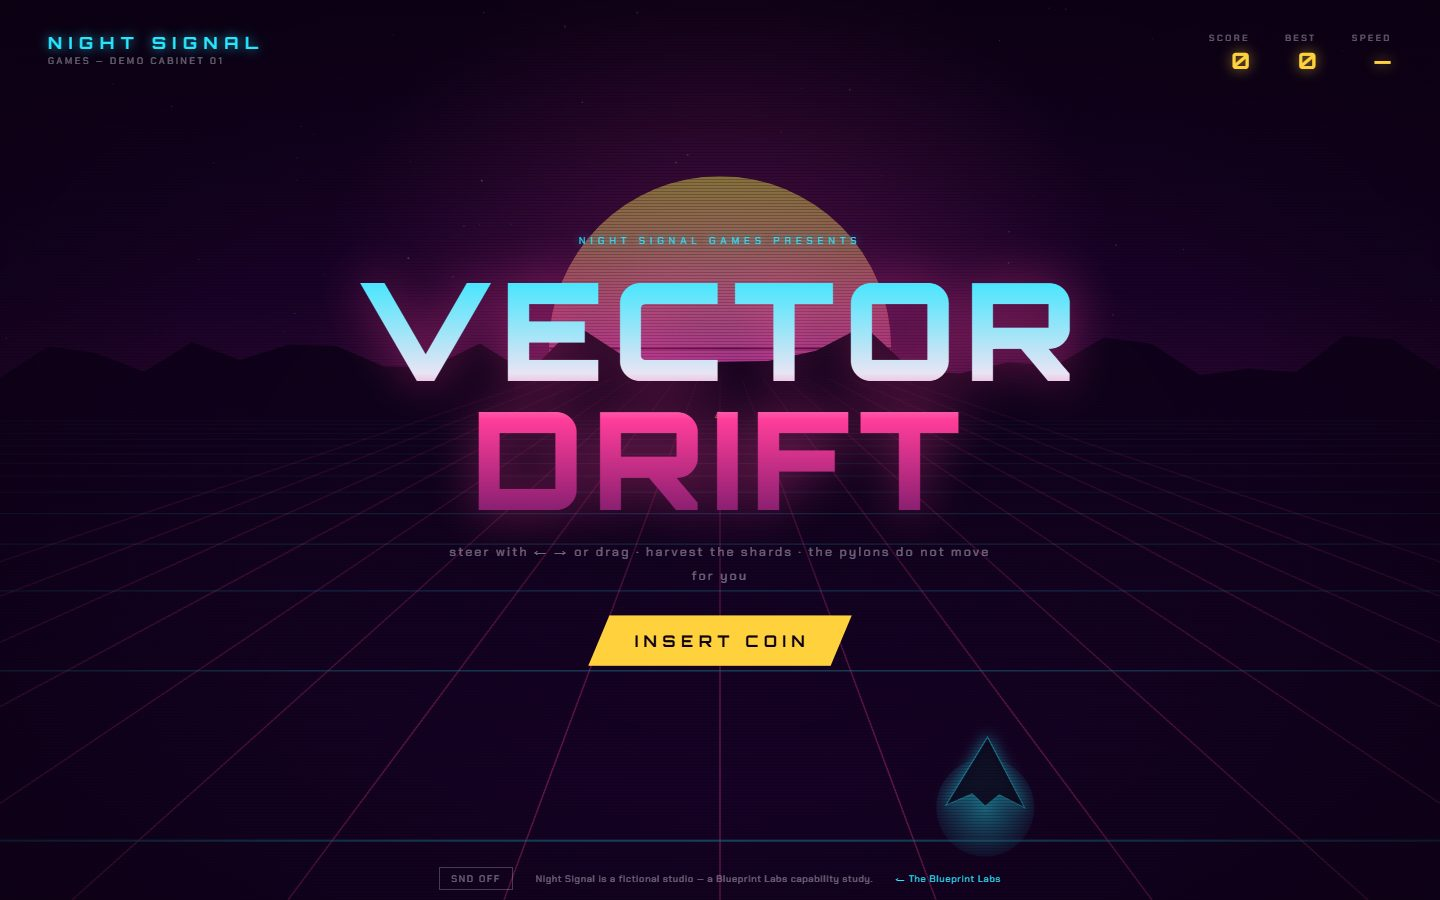
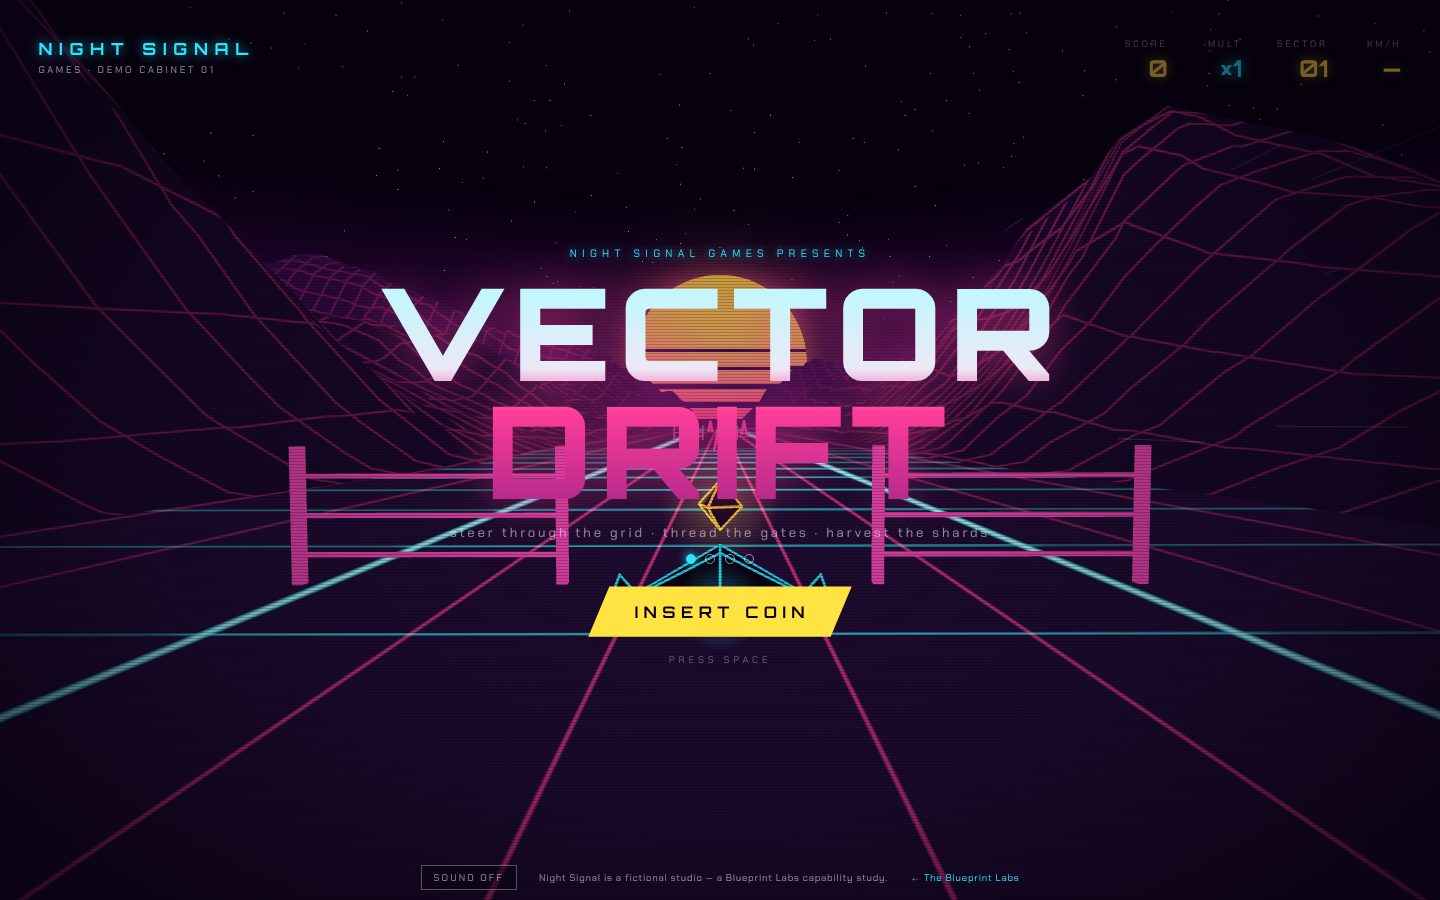
revamp: build 15-vector-drift [Claude]
Claude-Session: https://claude.ai/code/session_01DQwFJw17eUVBsd58sQTT1b

diff --git a/sites/15-vector-drift/script.js b/sites/15-vector-drift/script.js
@@ -420,7 +420,7 @@ function run() {
   scene.add(ship);
 
   // wingtip ribbons, laid flat behind the hull
-  const TRAIL = 10;
+  const TRAIL = 8;
   const trails = [-0.94, 0.94].map((ox) => {
     const pos = new Float32Array(TRAIL * 2 * 3), a = new Float32Array(TRAIL * 2);
     const idx = [];
@@ -631,7 +631,7 @@ function run() {
   const S = {
     mode: 'attract', x: 0, goal: 0, steerVel: 0, speed: 34, dist: 0, gameT: 0,
     score: 0, chain: 0, mult: 1, chainT: 0, sector: 1, near: 0, shardsGot: 0,
-    nextSpawn: 50, timeScale: 1, shake: 0, autoT: 0,
+    nextSpawn: 50, timeScale: 1, shake: 0, autoT: 0, flash: 0,
   };
   const ents = [];
   const keys = {};
@@ -666,6 +666,7 @@ function run() {
     const w = {
       single: 3, pair: sec >= 1 ? 1.6 : 0, gate: 0.9 + sec * 0.35, shards: 1.3,
       drone: sec >= 2 ? 0.8 + sec * 0.3 : 0, slalom: sec >= 2 ? 1 : 0, wall: sec >= 3 ? 0.6 + sec * 0.15 : 0,
+      zigzag: sec >= 3 ? 0.5 + sec * 0.15 : 0,
     };
     let roll = Math.random() * Object.values(w).reduce((a, b) => a + b, 0);
     let pick = 'single';
@@ -702,9 +703,24 @@ function run() {
       return 16;
     }
     if (pick === 'slalom') {
-      const start = Math.floor(Math.random() * 2);
-      for (let k = 0; k < 4; k++) addEnt('pylon', LANES[(start + k) % 2 === 0 ? 1 : 3], z - k * 13);
-      return 52;
+      // a spine down the middle with gates of pylons stepping out to either side
+      const flip = Math.random() < 0.5 ? 1 : 3;
+      for (let k = 0; k < 4; k++) {
+        addEnt('pylon', LANES[2], z - k * 15);
+        addEnt('pylon', LANES[(k % 2) ? 4 - flip : flip], z - k * 15);
+      }
+      addEnt('shard', LANES[flip === 1 ? 0 : 4], z - 22);
+      return 60;
+    }
+    if (pick === 'zigzag') {
+      // rows of four with the gap swinging across: you have to move
+      const gaps = Math.random() < 0.5 ? [0, 3, 1] : [4, 1, 3];
+      const step = Math.max(30, S.speed * 0.5);
+      gaps.forEach((g, k) => {
+        LANES.forEach((x, i) => { if (i !== g) addEnt('pylon', x, z - k * step); });
+        addEnt('shard', LANES[g], z - k * step);
+      });
+      return step * 2 + 10;
     }
     // wall: four pylons abreast, one lane open
     const open = Math.floor(Math.random() * 5);
@@ -796,7 +812,7 @@ function run() {
     setMode('over');
     const sc = Math.floor(S.score);
     el.final.textContent = sc.toLocaleString('en-US');
-    el.finalMeta.textContent = `sector ${String(S.sector).padStart(2, '0')} · ${S.near} near misses · ${S.shardsGot} shards · best ${Math.max(sc, table[0].s).toLocaleString('en-US')}`;
+    el.finalMeta.textContent = `sector ${String(S.sector).padStart(2, '0')} · ${S.near} near misses · ${S.shardsGot} shards · cabinet record ${Math.max(sc, table[0].s).toLocaleString('en-US')}`;
     el.over.hidden = false;
     const qualifies = sc > table[4].s;
     el.initials.hidden = !qualifies;
@@ -972,6 +988,7 @@ function run() {
 
   const clock = new THREE.Clock();
   const look = new THREE.Vector3();
+  let roll = 0;
 
   function update(dt, realDt) {
     const playing = S.mode === 'play';
@@ -984,7 +1001,7 @@ function run() {
       let dir = 0;
       for (const k in STEER) if (keys[k]) dir += STEER[k];
       dir = Math.sign(dir);
-      if (dir) S.goal = THREE.MathUtils.clamp(S.goal + dir * 15 * dt, -LIM, LIM);
+      if (dir) S.goal = THREE.MathUtils.clamp(S.goal + dir * (14 + S.speed * 0.09) * dt, -LIM, LIM);
       S.speed = 42 + 56 * (1 - Math.exp(-S.dist / 7000)) + (S.sector - 1) * 2.5;
     } else if (attract) {
       if (!reduceMotion) autopilot(dt);
@@ -1020,8 +1037,9 @@ function run() {
       S.nextSpawn -= dz;
       if (S.nextSpawn <= 0) {
         const len = spawnPattern(attract);
-        const gap = Math.max(16, 40 - S.sector * 4) + Math.random() * 14;
-        S.nextSpawn = len + gap;
+        // breathing room is measured in time, so it survives the speed
+        const secs = Math.max(0.42, (attract ? 1.0 : 0.95) - S.sector * 0.07) + Math.random() * 0.3;
+        S.nextSpawn = len + secs * Math.max(S.speed, 30);
       }
     }
 
@@ -1069,6 +1087,7 @@ function run() {
             e.passed = true;
             if (dx < hitR + 1.1) {
               S.near++; addChain(1);
+              S.flash = 1;
               const pts = 100 * S.mult;
               S.score += pts;
               callout(`CLOSE +${pts}`, e.x, 2.6, 0, '#29e6ff');
@@ -1095,9 +1114,13 @@ function run() {
     for (const k of KEYS) P[k].lerp(PT[k], pk);
     hazardLines.color.copy(P.hazard);
     padMat.color.copy(P.hazard);
-    beamMat.color.copy(P.hazard).multiplyScalar(HIGH ? 2.4 : 1.6);
+    // lasers hum; the hull's edges flare on a near miss
+    const hum = reduceMotion ? 0 : Math.sin(U.time.value * 37) * 0.25 + Math.sin(U.time.value * 61) * 0.15;
+    beamMat.color.copy(P.hazard).multiplyScalar((HIGH ? 2.4 : 1.6) + hum);
+    S.flash = Math.max(0, S.flash - realDt * 3);
+    shipLines.material.linewidth = (HIGH ? 2.2 : 2.6) + S.flash * 2.5;
     railMat.color.copy(P.hazard);
-    shipLines.material.color.copy(P.accent);
+    shipLines.material.color.copy(P.accent).lerp(new THREE.Color(1, 1, 1), S.flash * 0.6);
     engineGlow.material.color.copy(P.accent);
     streakMat.color.copy(P.grid2).lerp(new THREE.Color(1, 1, 1), 0.55);
 
@@ -1121,7 +1144,7 @@ function run() {
         if (!head || head.z - 0.75 > 0.45) tr.pts.unshift({ x: wx, y: wy, z: 0.75 });
         else { head.x = wx; head.y = wy; }
       }
-      while (tr.pts.length > TRAIL || (tr.pts.length && tr.pts[tr.pts.length - 1].z > 3.2)) tr.pts.pop();
+      while (tr.pts.length > TRAIL || (tr.pts.length && tr.pts[tr.pts.length - 1].z > 2.2)) tr.pts.pop();
       const n = tr.pts.length;
       for (let i = 0; i < TRAIL; i++) {
         const p = tr.pts[Math.min(i, n - 1)] || { x: wx, y: wy, z: 0.75 };
@@ -1171,7 +1194,8 @@ function run() {
     camera.position.set(S.x * (portrait ? 0.82 : 0.52) + (Math.random() - 0.5) * sh, (portrait ? 3.7 : 2.45) + (Math.random() - 0.5) * sh, portrait ? 9.4 : 7.6);
     look.set(S.x * 0.32, portrait ? 0.4 : 0.95, -32);
     camera.lookAt(look);
-    if (!reduceMotion) camera.rotateZ(THREE.MathUtils.clamp(-S.steerVel * 0.011, -0.11, 0.11));
+    roll += ((reduceMotion ? 0 : THREE.MathUtils.clamp(-S.steerVel * 0.006, -0.07, 0.07)) - roll) * Math.min(1, realDt * 4);
+    camera.rotateZ(roll);
     sky.position.copy(camera.position);
     U.fogD.value = scene.fog.density;
 

diff --git a/sites/15-vector-drift/style.css b/sites/15-vector-drift/style.css
@@ -241,7 +241,7 @@ html, body {
   letter-spacing: 0.06em;
   display: flex;
   flex-direction: column;
-  background: linear-gradient(180deg, #b8fbff 0%, var(--chrome) 40%, var(--pink) 58%, #6d1462 100%);
+  background: linear-gradient(180deg, #b8fbff 0%, var(--chrome) 40%, var(--pink) 58%, #b0288a 100%);
   -webkit-background-clip: text;
   background-clip: text;
   color: transparent;
@@ -393,7 +393,7 @@ html, body {
     radial-gradient(circle at 50% 50%, #ffd23d 0 9vmin, #ff3d9a 15vmin, transparent 15.2vmin),
     linear-gradient(180deg, #07010f 0%, #26043a 45%, #57104f 56%);
 }
-.no-webgl .coin, .no-webgl .press, .no-webgl .dots { display: none; }
+.no-webgl .coin, .no-webgl .press, .no-webgl .dots, .no-webgl .hud { display: none; }
 
 /* ---------- footer ---------- */
 

diff --git a/revamp/notes/15-vector-drift.md b/revamp/notes/15-vector-drift.md
@@ -2,8 +2,8 @@
 
 - **Vertical:** Game Studio
 - **Batch:** 3 · **Builder:** Claude · **Reviewer:** Codex
-- **Stage:** building
-- **Next step:** Pass 1 rebuild (plan below).
+- **Stage:** awaiting review
+- **Next step:** Codex reviews (T9).
 
 ## Original audit
 _Written before changing any code. Compare against branch `origin/v1-original`._
@@ -70,17 +70,58 @@ after a steer, and 10 s in (on mobile, after the crash screen).
   streaks. Without WebGL, a static poster with a message.
 
 ## Pass log
-- Pass 1:
-- Pass 2:
-- Pass 3:
+- Pass 1: Rebuilt as a 3D runner in Three.js. A shader grid road with
+  lane lines and bright road edges (the sun laid on it), a banded sun
+  with shimmer, endless wireframe ranges displaced in the vertex shader,
+  a star dome, speed streaks, and bloom plus a CRT pass (barrel curve,
+  chromatic fringe, scanlines, vignette) on desktop. A low-poly hull
+  with fat neon edges banks and hovers, with an engine glow and short
+  wingtip ribbons. Pylons, laser gates with one way through, sweeping
+  drones and shards are pooled. Near misses and threaded gates build a
+  multiplier that decays, and score thresholds open sectors that repaint
+  sun, grid, haze and hazards under a SECTOR banner. A crash breaks the
+  hull into its edges with slow-mo and shake, then SIGNAL LOST with
+  stats, a local top-five that takes three initials, RE-SYNC or back
+  to the cabinet. The attract loop cycles title, high scores, how to
+  play and the studio's other cabinets (dots, paused while you read)
+  while an autopilot drives. Pause on P/Esc (button on touch, and when
+  the tab hides), drag to steer, M for sound. The synth plays a
+  sequenced arpeggio, an engine tone that tracks speed, and effects.
+- Pass 2: From play renders. Bloom was turning every line into a bar,
+  and the wingtip trails ran past the camera as giant beams; both are
+  calmer now. Hazards vanished into the haze at distance, so their
+  edges ignore fog, they stand on glowing pads, and pylons are taller;
+  the mountains and engine glow are dimmer so hazards read first. The
+  sun sits higher and is no longer blown out. Patterns were reworked:
+  the slalom had a safe centre lane (now a spine with side gates), a
+  zigzag of four-pylon rows forces moves from sector 3, spacing between
+  patterns is measured in time so it survives top speed, and steering
+  quickens with speed. Text cards got a backing panel for legibility
+  over the sun.
+- Pass 3: Viewports and polish. Checked 1024x640, 768x1024, 844x390,
+  390x844 and 360x640: phones put the HUD under the brand, the camera
+  rises and widens its FOV on tall screens, and short screens shrink
+  the cabinet. The hull's edges flare on a near miss and the lasers
+  hum; camera roll is smoothed and smaller (the autopilot's swerves
+  tilted the horizon). Reduced motion: no shake, flash, roll, FOV swing,
+  slow-mo, autopilot or card cycling, and the attract scene holds a
+  composed pose, while the game itself stays playable. Without WebGL the
+  page shows a CSS marquee and says why.
 
 ## Verification
-- check-rules:
-- verify-sites:
-- Visual check, desktop 1440x900:
-- Visual check, mobile 390x844:
-- Reduced motion:
-- Thumbnail regenerated:
+- check-rules: OK (96 files, 26 projects)
+- verify-sites: `--only 15 --cdn-mirror` → ok, console 0, page 0,
+  failed requests 0.
+- Visual check, desktop 1440x900 / 1280x800: done. Attract cards,
+  runs in sectors 1–3 (gates, drones, zigzag, palettes), steering,
+  pause, crash, SIGNAL LOST, initials signing, back to the cabinet;
+  sound toggled on with no errors. Renders used a larger frame-time cap
+  in a scratch copy because the software renderer runs at ~3 fps.
+- Visual check, mobile 390x844: done. Attract cards, drag steering,
+  pause button, over screen; plus 360x640, 768x1024, 844x390, 1024x640.
+- Reduced motion: done. Static attract pose, no shake/flash/roll,
+  instant transitions; play, pause and signing all work.
+- Thumbnail regenerated: yes (`--wait 4000`, attract with a gate).
 
 ## Review
 _Reviewer: add findings as `- [ ] R1 (must|nice) …`, then follow the checklist in PROTOCOL §5._

diff --git a/revamp/BOARD.md b/revamp/BOARD.md
@@ -64,7 +64,7 @@ Stage: `not started` → `building` → `awaiting review` → `changes requested
 | 12-ligature-foundry | 3 | Claude | Codex | awaiting review | [note](notes/12-ligature-foundry.md) |
 | 13-bathyal-institute | 3 | Claude | Codex | awaiting review | [note](notes/13-bathyal-institute.md) |
 | 14-suminaga-teahouse | 3 | Claude | Codex | awaiting review | [note](notes/14-suminaga-teahouse.md) |
-| 15-vector-drift | 3 | Claude | Codex | building | [note](notes/15-vector-drift.md) |
+| 15-vector-drift | 3 | Claude | Codex | awaiting review | [note](notes/15-vector-drift.md) |
 | 16-orrery-capital | 4 | Codex | Claude | not started | [note](notes/16-orrery-capital.md) |
 | 17-maison-vela | 4 | Codex | Claude | not started | [note](notes/17-maison-vela.md) |
 | 18-koppar-roastery | 4 | Codex | Claude | not started | [note](notes/18-koppar-roastery.md) |
